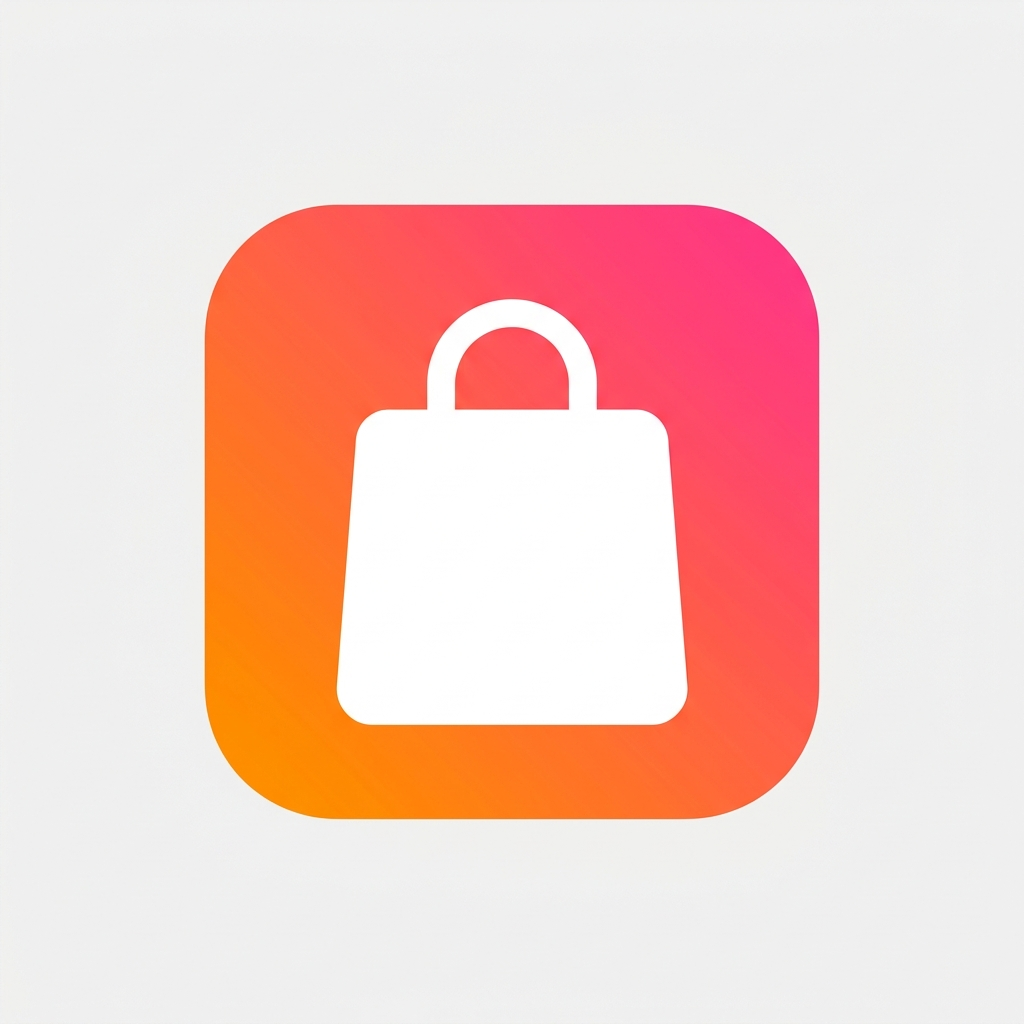
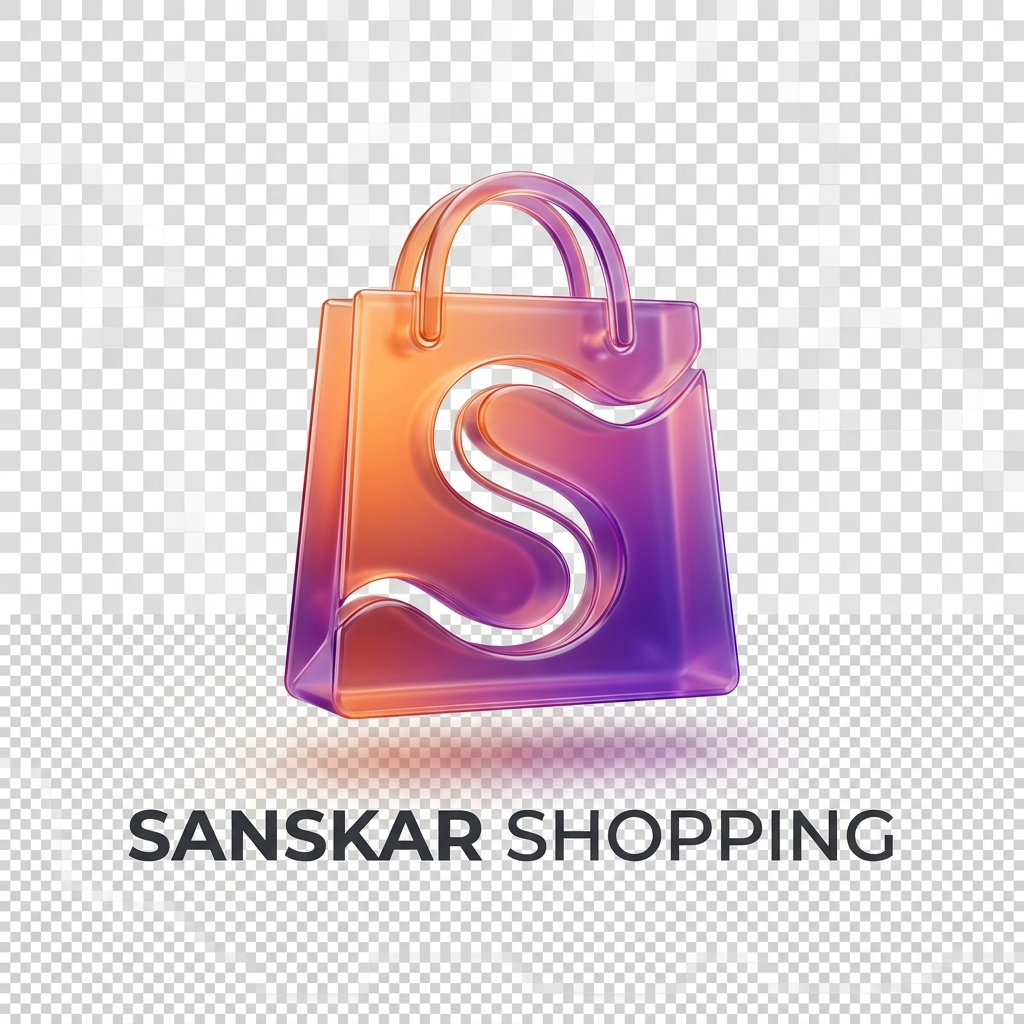
ch2

diff --git a/src/app/admin/login/page.tsx b/src/app/admin/login/page.tsx
@@ -3,12 +3,15 @@
 import React, { useState, useEffect } from "react";
 import { useRouter } from "next/navigation";
 import { useAuth } from "@/context/AuthContext";
-import { ShoppingBag, ArrowRight, Globe } from "lucide-react";
+import { ShoppingBag, ArrowRight, Globe, X } from "lucide-react";
 import Link from "next/link";
+import Image from "next/image";
+import { motion, AnimatePresence } from "framer-motion";
 
 export default function AdminLogin() {
   const { user, loading: authLoading, loginWithGoogle } = useAuth();
   const [isLoggingIn, setIsLoggingIn] = useState(false);
+  const [error, setError] = useState<string | null>(null);
   const router = useRouter();
 
   useEffect(() => {
@@ -19,8 +22,15 @@ export default function AdminLogin() {
 
   const handleGoogleLogin = async () => {
     setIsLoggingIn(true);
-    await loginWithGoogle();
-    setIsLoggingIn(false);
+    setError(null);
+    try {
+      await loginWithGoogle();
+      // The logic in AuthContext will throw if not an admin
+    } catch (err: any) {
+      setError("Access Denied: Only admin can access.");
+    } finally {
+      setIsLoggingIn(false);
+    }
   };
 
   if (authLoading) return null;
@@ -30,8 +40,8 @@ export default function AdminLogin() {
       <div className="w-full max-w-md">
         <div className="text-center mb-10">
           <Link href="/" className="inline-flex items-center gap-3 mb-8 group">
-            <div className="w-14 h-14 bg-gradient-to-tr from-orange-500 to-pink-600 rounded-2xl flex items-center justify-center shadow-lg group-hover:rotate-12 transition-transform">
-              <ShoppingBag className="text-white w-8 h-8" />
+            <div className="w-14 h-14 relative group-hover:rotate-12 transition-transform">
+              <Image src="/logo.png" alt="Logo" fill className="object-contain" />
             </div>
             <span className="text-3xl font-black">Sanskar <span className="gradient-text">Admin</span></span>
           </Link>
@@ -40,6 +50,39 @@ export default function AdminLogin() {
         </div>
 
         <div className="glass-card p-10 rounded-[3rem] shadow-2xl relative overflow-hidden">
+          {/* Custom Website Style Modal */}
+          <AnimatePresence>
+            {error && (
+              <div className="fixed inset-0 z-[100] flex items-center justify-center p-6 bg-black/40 backdrop-blur-md">
+                <motion.div 
+                  initial={{ opacity: 0, scale: 0.95 }}
+                  animate={{ opacity: 1, scale: 1 }}
+                  exit={{ opacity: 0, scale: 0.95 }}
+                  className="glass-card p-10 rounded-[3rem] shadow-2xl max-w-sm w-full text-center border-t border-white/20"
+                >
+                  <div className="w-20 h-20 bg-gradient-to-tr from-orange-500/20 to-pink-500/20 rounded-[2rem] flex items-center justify-center mx-auto mb-8 border border-orange-500/20">
+                    <ShoppingBag className="text-orange-500" size={32} />
+                  </div>
+                  
+                  <h3 className="text-2xl font-black mb-4 leading-tight">
+                    Sorry, only <span className="gradient-text">admin</span> can access
+                  </h3>
+                  
+                  <p className="text-muted-foreground font-medium mb-10 text-sm">
+                    This portal is restricted to authorized users only. 
+                  </p>
+
+                  <button 
+                    onClick={() => setError(null)}
+                    className="w-full py-4 bg-white text-black hover:bg-orange-50 font-black rounded-2xl transition-all shadow-xl shadow-black/5 active:scale-95"
+                  >
+                    OK
+                  </button>
+                </motion.div>
+              </div>
+            )}
+          </AnimatePresence>
+
           <div className="absolute top-0 right-0 w-32 h-32 bg-orange-500/5 rounded-full blur-3xl -translate-y-1/2 translate-x-1/2"></div>
           
           <button

diff --git a/src/components/Navbar.tsx b/src/components/Navbar.tsx
@@ -38,7 +38,7 @@ export default function Navbar() {
       <div className="container mx-auto px-4 flex items-center justify-between">
         {/* Logo */}
         <Link href="/" className="flex items-center gap-2 group">
-          <div className="w-10 h-10 relative group-hover:rotate-12 transition-transform">
+          <div className="w-12 h-12 relative group-hover:scale-110 transition-transform">
             <Image src="/logo.png" alt="Logo" fill className="object-contain" />
           </div>
           <span className="text-xl font-black tracking-tight gradient-text">